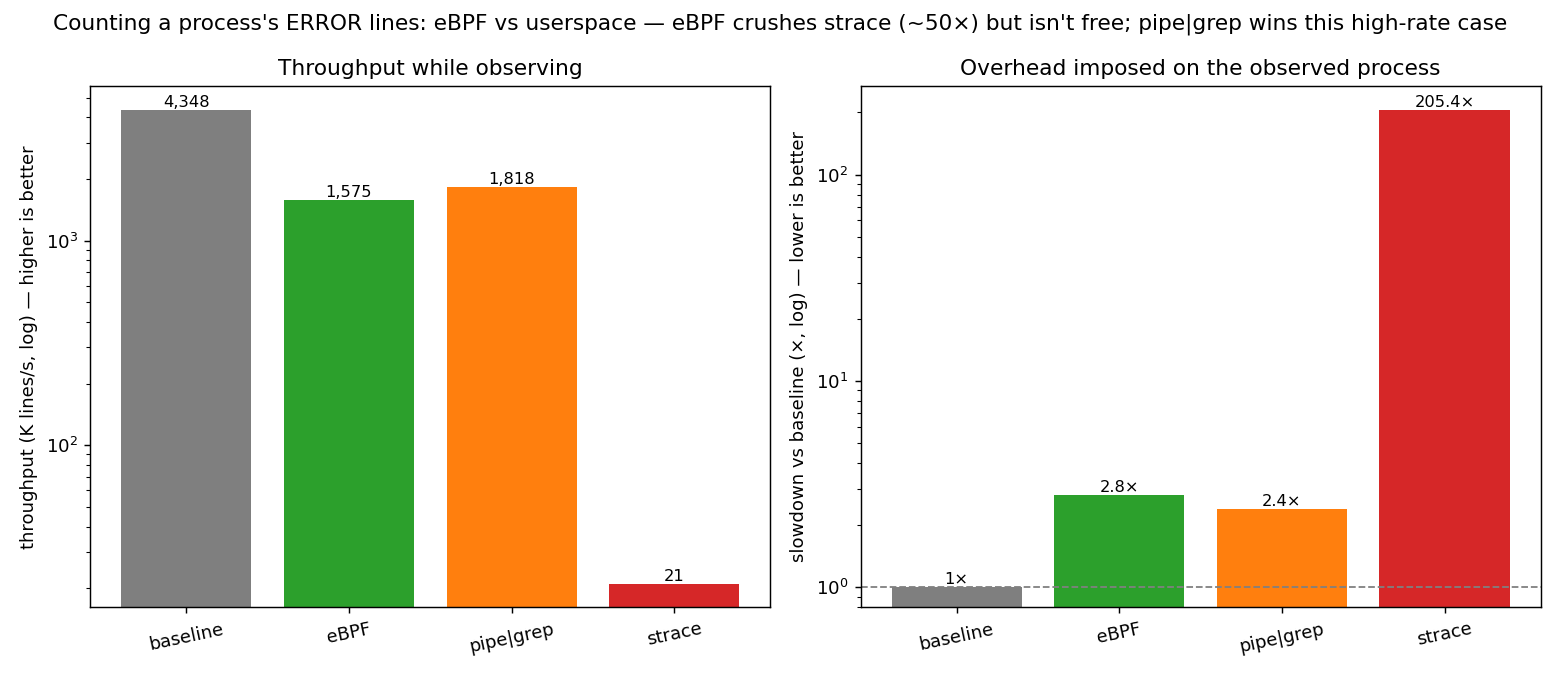
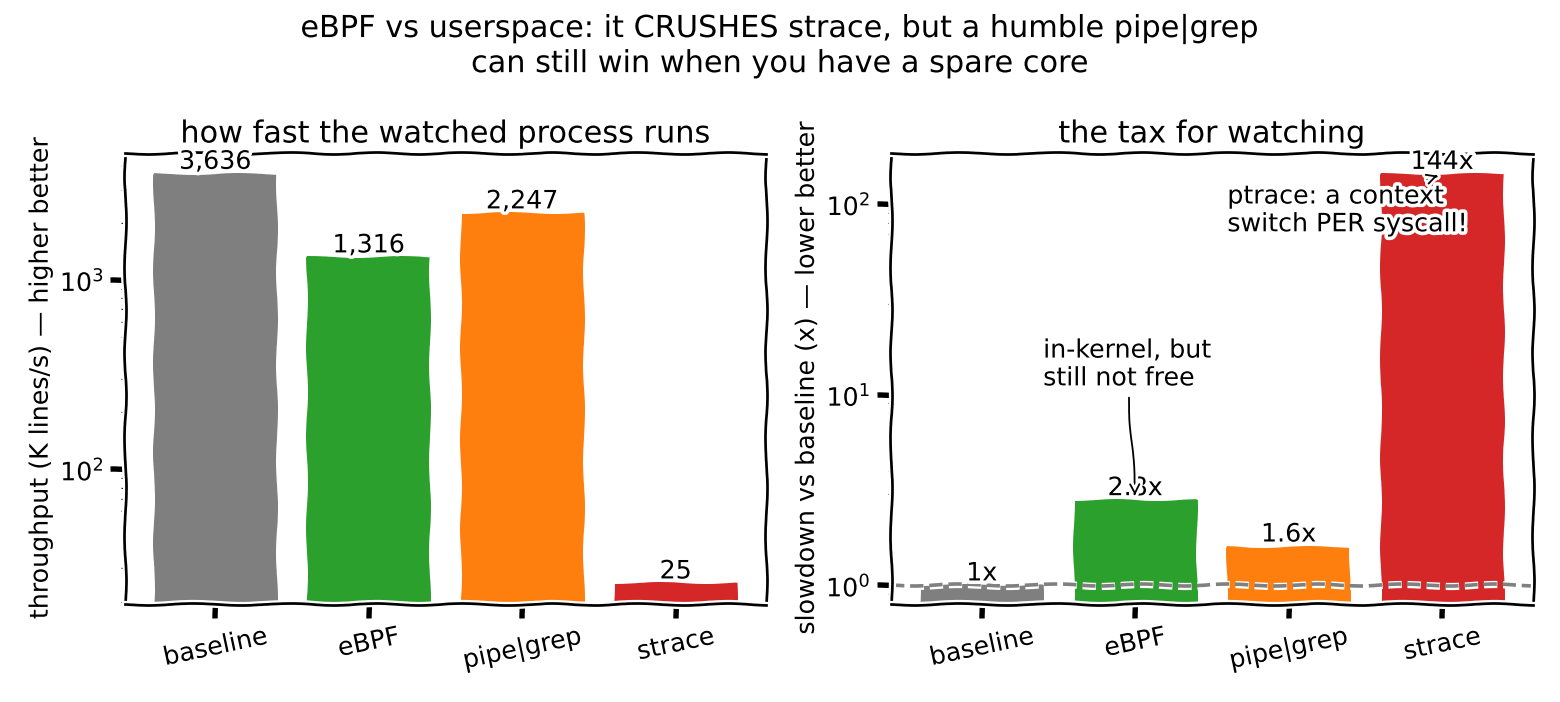
Add good-vs-bad use-case sweep + xkcd-style charts; explain strace vs pipe|grep
- logtarget --bytes pads each line; bench.sh sweeps message size -> sizes.csv.
- plot.py: hand-drawn (plt.xkcd) charts with annotations; new sizes.png shows the
  crossover — tiny msgs favor pipe|grep (eBPF's per-event probe is overhead), big
  msgs favor eBPF (pipe|grep pays per byte; eBPF peeks 5 in-kernel, ships nothing).
- README: explain why eBPF beats strace (no per-syscall context switch) but loses
  to pipe|grep (parallel, off the hot path); add good-vs-bad section + chart.
- CI: install fonts-humor-sans, render + commit both charts (the post-run bot
  commit that pipes results back into the README — already in place).

Changed region(s): [[0.0, 0.0, 1.0, 0.963], [0.6462, 0.466, 0.7692, 0.5592]]

diff --git a/scripts/plot.py b/scripts/plot.py
@@ -1,7 +1,10 @@
 #!/usr/bin/env python3
-"""Render the eBPF-vs-userspace results from results.csv into docs/img/results.png.
+"""Render the eBPF-vs-userspace charts (hand-drawn / xkcd style) into docs/img/.
 
-Two panels (log scale — strace dwarfs everything): throughput and slowdown.
+  results.png  bar charts: throughput + slowdown for the headline workload
+  sizes.png    line chart: slowdown vs message size — the good-vs-bad use case
+               (tiny messages -> pipe|grep wins; big messages -> eBPF wins)
+
 Usage: python3 scripts/plot.py [results.csv]   (needs matplotlib + numpy)
 """
 import csv
@@ -14,7 +17,8 @@ matplotlib.use("Agg")
 import matplotlib.pyplot as plt
 
 ROOT = os.path.dirname(os.path.dirname(os.path.abspath(__file__)))
-CSV = sys.argv[1] if len(sys.argv) > 1 else os.path.join(ROOT, "results.csv")
+RESULTS = sys.argv[1] if len(sys.argv) > 1 else os.path.join(ROOT, "results.csv")
+SIZES = os.path.join(os.path.dirname(RESULTS), "sizes.csv")
 IMG = os.path.join(ROOT, "docs", "img")
 os.makedirs(IMG, exist_ok=True)
 
@@ -22,46 +26,94 @@ COLOR = {"baseline": "#7f7f7f", "eBPF": "#2ca02c", "pipe|grep": "#ff7f0e",
          "strace": "#d62728"}
 
 
-def load():
-    with open(CSV, newline="") as f:
+def rows(path):
+    with open(path, newline="") as f:
         return list(csv.DictReader(f))
 
 
-def main():
-    rows = load()
-    methods = [r["method"] for r in rows]
-    tput = [float(r["throughput_klps"]) for r in rows]
-    slow = [float(r["slowdown"]) for r in rows]
+def plot_results():
+    data = rows(RESULTS)
+    methods = [r["method"] for r in data]
+    tput = [float(r["throughput_klps"]) for r in data]
+    slow = [float(r["slowdown"]) for r in data]
     colors = [COLOR.get(m, "#1f77b4") for m in methods]
 
-    fig, (a_tp, a_sl) = plt.subplots(1, 2, figsize=(12, 5.2))
+    with plt.xkcd():
+        fig, (a_tp, a_sl) = plt.subplots(1, 2, figsize=(12, 5.4))
 
-    a_tp.bar(methods, tput, color=colors)
-    a_tp.set_yscale("log")
-    a_tp.set_ylabel("throughput (K lines/s, log) — higher is better")
-    a_tp.set_title("Throughput while observing")
-    for i, v in enumerate(tput):
-        a_tp.text(i, v, f"{v:,.0f}", ha="center", va="bottom", fontsize=9)
+        a_tp.bar(methods, tput, color=colors)
+        a_tp.set_yscale("log")
+        a_tp.set_ylabel("throughput (K lines/s) — higher better")
+        a_tp.set_title("how fast the watched process runs")
+        for i, v in enumerate(tput):
+            a_tp.text(i, v, f"{v:,.0f}", ha="center", va="bottom")
 
-    a_sl.bar(methods, slow, color=colors)
-    a_sl.set_yscale("log")
-    a_sl.set_ylim(bottom=0.8)
-    a_sl.axhline(1.0, color="gray", ls="--", lw=1)
-    a_sl.set_ylabel("slowdown vs baseline (×, log) — lower is better")
-    a_sl.set_title("Overhead imposed on the observed process")
-    for i, v in enumerate(slow):
-        a_sl.text(i, v, f"{v:g}×", ha="center", va="bottom", fontsize=9)
+        a_sl.bar(methods, slow, color=colors)
+        a_sl.set_yscale("log")
+        a_sl.set_ylim(bottom=0.8)
+        a_sl.axhline(1.0, color="gray", ls="--")
+        a_sl.set_ylabel("slowdown vs baseline (x) — lower better")
+        a_sl.set_title("the tax for watching")
+        for i, v in enumerate(slow):
+            a_sl.text(i, v, f"{v:g}x", ha="center", va="bottom")
+        # a little bazzaz
+        if "strace" in methods:
+            i = methods.index("strace")
+            a_sl.annotate("ptrace: a context\nswitch PER syscall!",
+                          xy=(i, slow[i]), xytext=(i - 1.4, slow[i] * 0.5),
+                          arrowprops=dict(arrowstyle="->"))
+        if "eBPF" in methods:
+            i = methods.index("eBPF")
+            a_sl.annotate("in-kernel, but\nstill not free",
+                          xy=(i, slow[i]), xytext=(i - 0.6, slow[i] * 4),
+                          arrowprops=dict(arrowstyle="->"))
 
-    for a in (a_tp, a_sl):
-        a.tick_params(axis="x", rotation=12)
+        for a in (a_tp, a_sl):
+            a.tick_params(axis="x", rotation=12)
+        fig.suptitle("eBPF vs userspace: it CRUSHES strace, but a humble pipe|grep\n"
+                     "can still win when you have a spare core")
+        fig.tight_layout()
+        fig.savefig(os.path.join(IMG, "results.png"), dpi=130)
+        plt.close(fig)
+    print("wrote results.png")
 
-    fig.suptitle("Counting a process's ERROR lines: eBPF vs userspace — eBPF crushes "
-                 "strace (~50×) but isn't free; pipe|grep wins this high-rate case",
-                 fontsize=12)
-    fig.tight_layout()
-    fig.savefig(os.path.join(IMG, "results.png"), dpi=130)
-    plt.close(fig)
-    print(f"Wrote {IMG}/results.png")
+
+def plot_sizes():
+    if not os.path.exists(SIZES):
+        print("no sizes.csv — skipping sizes.png")
+        return
+    series = {}
+    for r in rows(SIZES):
+        series.setdefault(r["method"], []).append(
+            (int(r["bytes"]), float(r["slowdown"])))
+    with plt.xkcd():
+        fig, ax = plt.subplots(figsize=(10, 6))
+        for m in ("baseline", "pipe|grep", "eBPF"):
+            if m not in series:
+                continue
+            pts = sorted(series[m])
+            ax.plot([p[0] for p in pts], [p[1] for p in pts], "-o",
+                    color=COLOR.get(m), label=m, lw=2.5)
+        ax.set_xscale("log", base=2)
+        ax.set_yscale("log")
+        ax.set_xlabel("message size (bytes per write)")
+        ax.set_ylabel("slowdown vs baseline (x) — lower better")
+        ax.set_title("good case vs bad case for eBPF\n"
+                     "eBPF cost is PER EVENT; pipe|grep pays PER BYTE")
+        ax.legend()
+        ax.annotate("BAD for eBPF:\ntiny msgs, lots of\nsyscall overhead\n-> pipe|grep wins",
+                    xy=(0.04, 0.04), xycoords="axes fraction", va="bottom")
+        ax.annotate("GOOD for eBPF:\nbig msgs -> pipe|grep must\nshovel every byte;\neBPF just peeks 5",
+                    xy=(0.62, 0.7), xycoords="axes fraction", va="top")
+        fig.tight_layout()
+        fig.savefig(os.path.join(IMG, "sizes.png"), dpi=130)
+        plt.close(fig)
+    print("wrote sizes.png")
+
+
+def main():
+    plot_results()
+    plot_sizes()
 
 
 if __name__ == "__main__":

diff --git a/src/logtarget.cpp b/src/logtarget.cpp
@@ -2,33 +2,54 @@
 //
 // The workload being observed: a process that emits N log lines, a fixed
 // percentage prefixed "ERROR", the rest "INFO". One write() syscall per line
-// (no buffering) so the syscall rate is high — that's what makes the cost of
-// *observing* each write visible. Writes go to stdout (the harness redirects it).
+// (no buffering) so the syscall rate is high.
+//
+// --bytes B pads each line to exactly B bytes. That knob drives the use-case
+// sweep: tiny lines = lots of syscall overhead per byte of real work; big lines
+// = lots of data to move (which punishes anything that copies it to userspace).
 
+#include <algorithm>
 #include <cstdio>
 #include <cstdlib>
 #include <cstring>
 #include <string>
+#include <vector>
 #include <unistd.h>
 
 int main(int argc, char** argv) {
     long lines = 200000;
     int error_pct = 10;
+    int bytes = 0; // 0 = natural short line; >0 = pad to this many bytes
     for (int i = 1; i + 1 < argc; i += 2) {
         std::string k = argv[i], v = argv[i + 1];
         if (k == "--lines") lines = std::atol(v.c_str());
         else if (k == "--error-pct") error_pct = std::atoi(v.c_str());
+        else if (k == "--bytes") bytes = std::atoi(v.c_str());
     }
 
-    char buf[64];
+    if (bytes <= 0) {
+        char buf[64];
+        for (long i = 0; i < lines; ++i) {
+            const bool err = (i % 100) < error_pct;
+            int n = std::snprintf(buf, sizeof(buf), "%-6s%08ld request handled ok\n",
+                                  err ? "ERROR" : "INFO", i);
+            if (n < 0) return 1;
+            if (n > static_cast<int>(sizeof(buf))) n = sizeof(buf);
+            (void)!::write(STDOUT_FILENO, buf, static_cast<size_t>(n));
+        }
+        return 0;
+    }
+
+    if (bytes < 16) bytes = 16;
+    if (bytes > 65536) bytes = 65536;
+    std::vector<char> buf(static_cast<size_t>(bytes), 'x'); // padding
+    char head[32];
     for (long i = 0; i < lines; ++i) {
         const bool err = (i % 100) < error_pct;
-        int n = std::snprintf(buf, sizeof(buf), "%-6s%08ld request handled ok\n",
-                              err ? "ERROR" : "INFO", i);
-        if (n < 0) return 1;
-        if (n > static_cast<int>(sizeof(buf))) n = sizeof(buf);
-        ssize_t w = ::write(STDOUT_FILENO, buf, static_cast<size_t>(n));
-        (void)w;
+        int h = std::snprintf(head, sizeof(head), "%-6s%08ld ", err ? "ERROR" : "INFO", i);
+        if (h > 0) std::memcpy(buf.data(), head, std::min<size_t>(h, bytes - 1)); // keep prefix; rest stays 'x'
+        buf[bytes - 1] = '\n';
+        (void)!::write(STDOUT_FILENO, buf.data(), static_cast<size_t>(bytes));
     }
     return 0;
 }

diff --git a/README.md b/README.md
@@ -62,6 +62,42 @@ counters, whereas `pipe | grep` copies every byte out; (3) **reach** — packets
 kernel functions, things with no userspace equivalent. The price is a fixed
 per-event cost and verifier-limited logic.
 
+## Why eBPF beats `strace` but loses to `pipe | grep`
+
+All three *observe* the same writes — the mechanism is what differs:
+
+- **`strace` (ptrace)** stops the target and **context-switches to the tracer on
+  every syscall** (stop → run strace → resume) — scheduler work *per event*. At one
+  tiny `write()` per line that's brutal. eBPF avoids it entirely.
+- **eBPF** runs its probe **in the kernel, in the target's own syscall path** — no
+  context switch, just a JIT'd function call. Far cheaper than ptrace, but still
+  **synchronous on the hot path**, so it adds a fixed cost to every `write()`.
+- **`pipe | grep`** doesn't intercept syscalls at all: the app writes to a pipe
+  (cheap, batched) and `grep` consumes it **on another core, in parallel** — *off*
+  the hot path. With a spare core and a cooperative stream, that beats inline probing.
+
+So eBPF skips ptrace's context-switch tax (→ **beats strace**), but pays a
+per-syscall cost a parallel pipe consumer avoids (→ **loses to pipe|grep here**).
+The catch: `pipe | grep` only works if you can redirect the app *and* you're happy
+to copy every byte to userspace. eBPF needs neither.
+
+## Good case vs bad case for eBPF
+
+eBPF's cost is **per event** (it peeks 5 bytes regardless of size); `pipe | grep`'s
+cost is **per byte** (it moves and scans everything). Sweep the message size and
+the winner flips:
+
+![good vs bad use case for eBPF](docs/img/sizes.png)
+
+- **Bad for eBPF — tiny, high-rate messages:** the per-syscall probe is almost pure
+  overhead; a parallel `pipe | grep` wins.
+- **Good for eBPF — large messages (or "I just want a summary"):** `pipe | grep`
+  must shovel every byte to userspace and scan it, while eBPF still just peeks the
+  prefix in-kernel and ships nothing — so it pulls ahead.
+- **The deepest good case isn't on the chart:** observing a **black-box process you
+  can't modify** (production, someone else's binary). There `pipe | grep` isn't even
+  possible — your alternatives are eBPF or `strace`, and eBPF wins by orders of magnitude.
+
 ## The catch (why eBPF isn't a parser)
 
 Look at [`src/error_count.bpf.c`](src/error_count.bpf.c): it only checks a